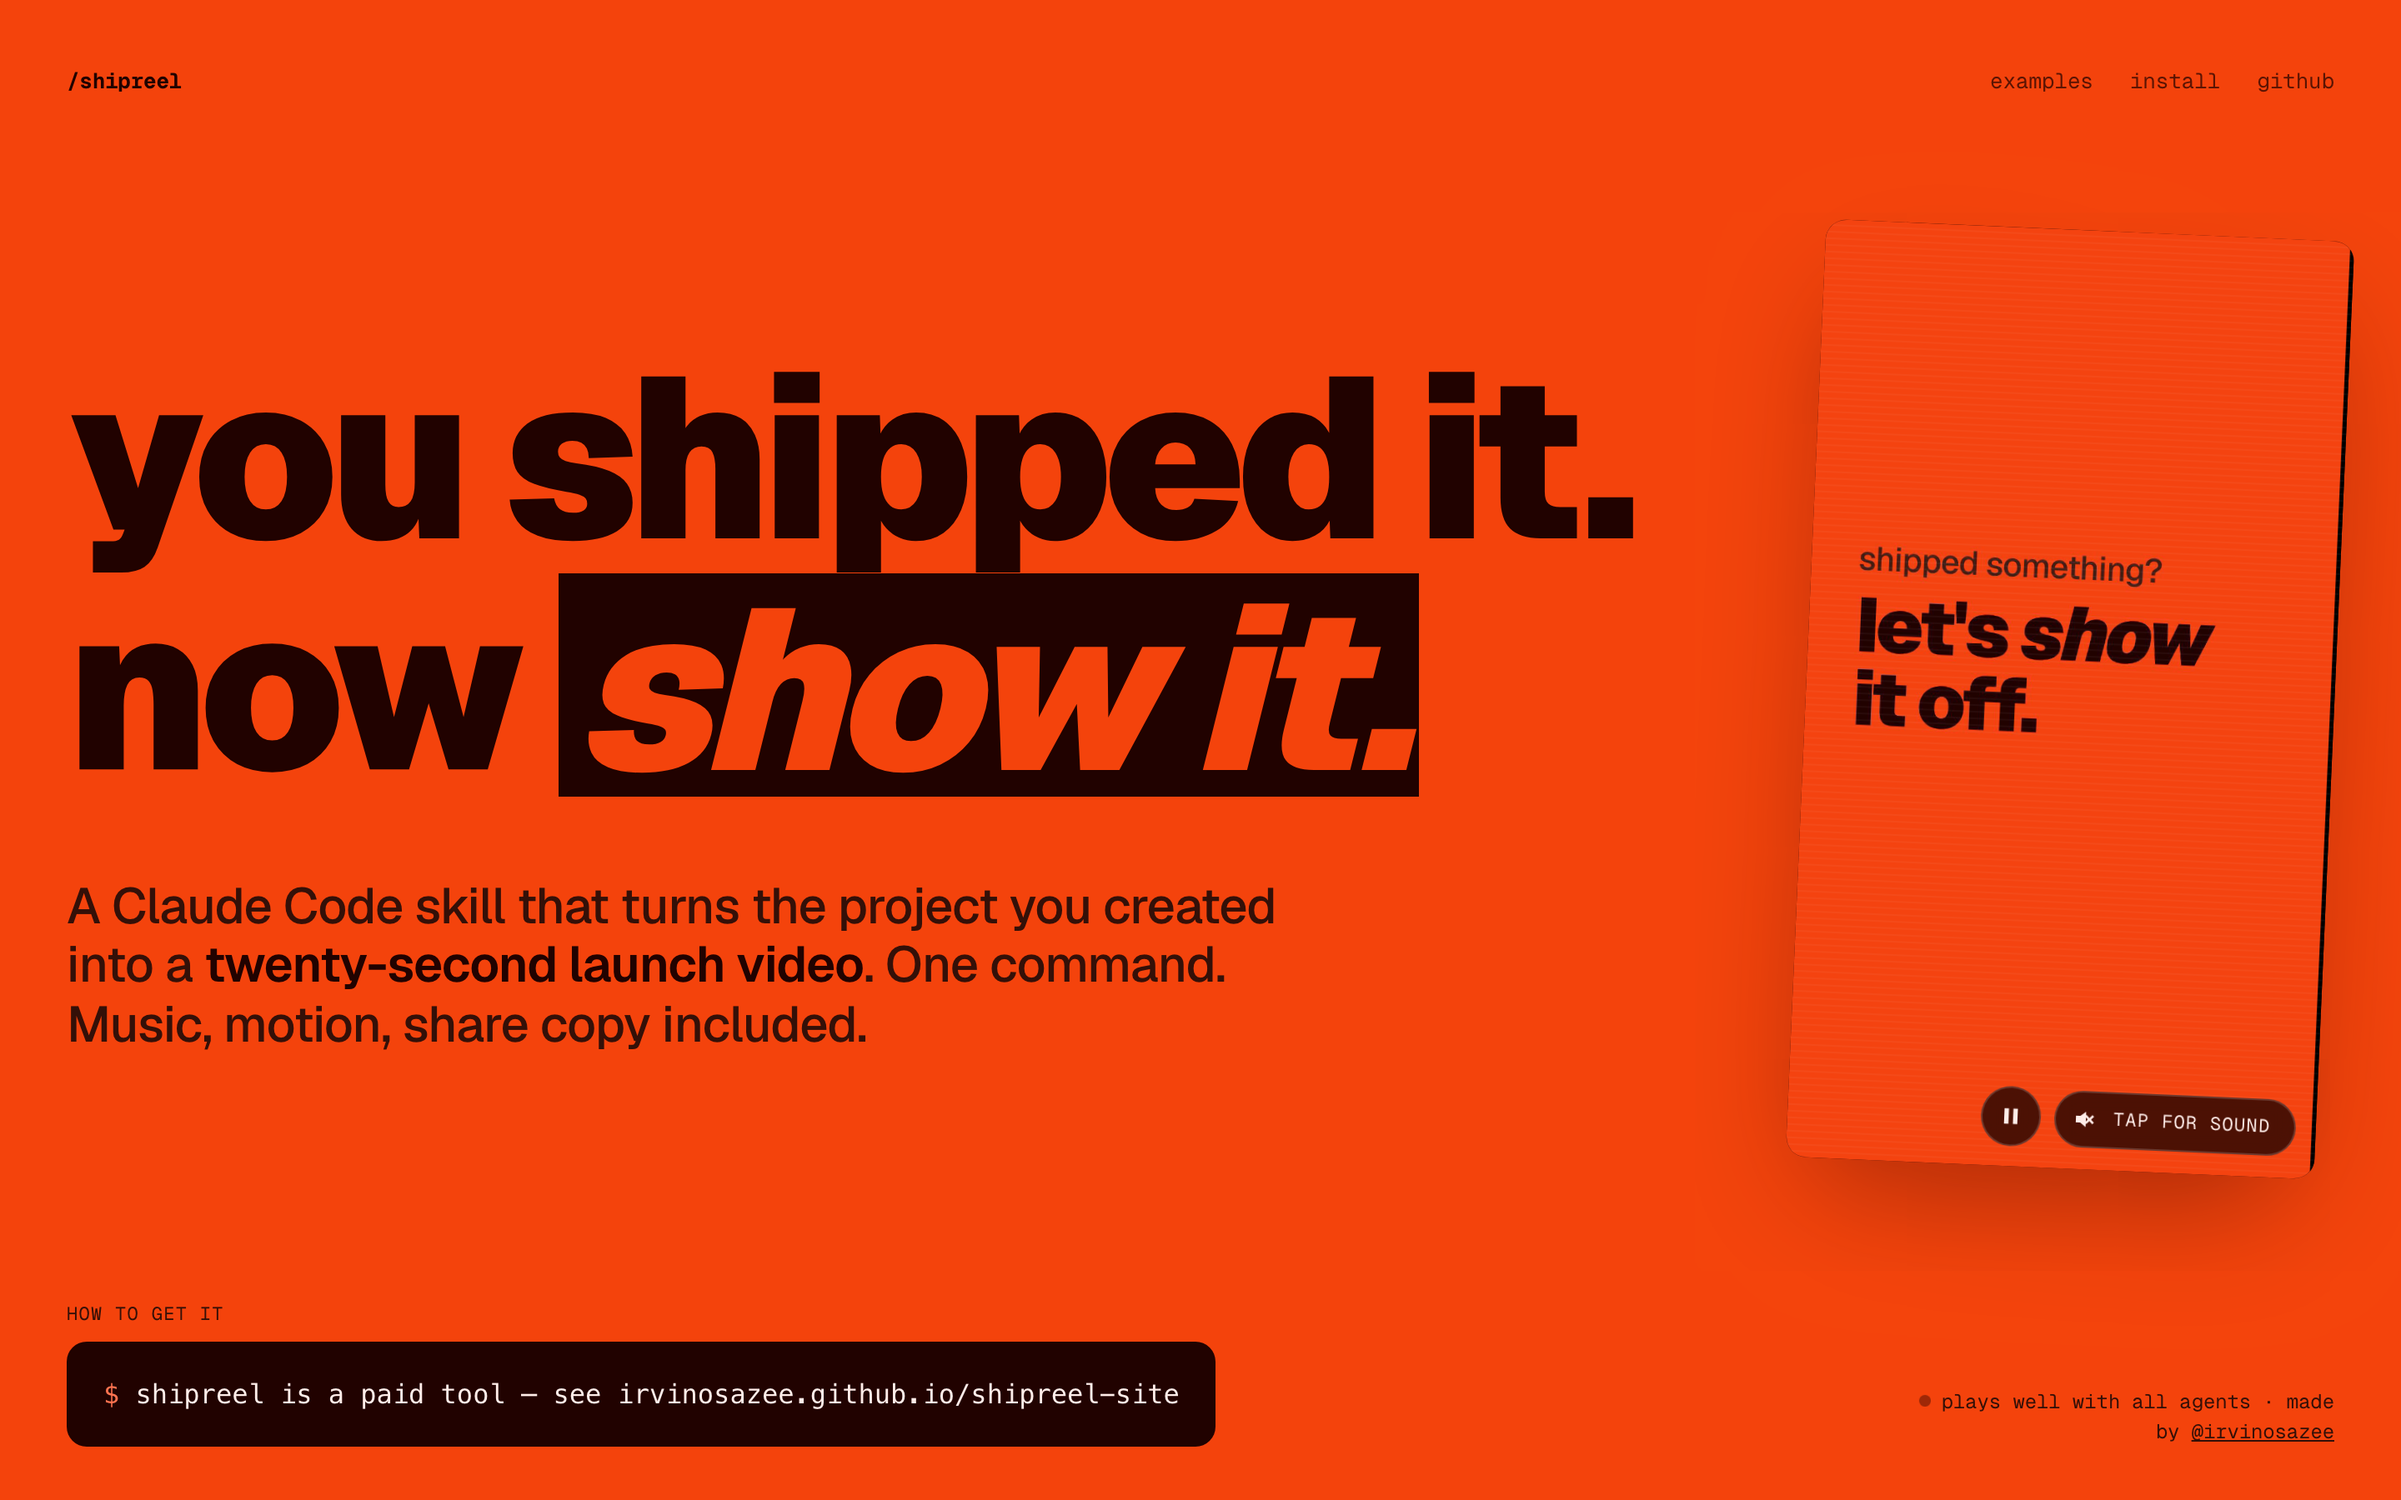
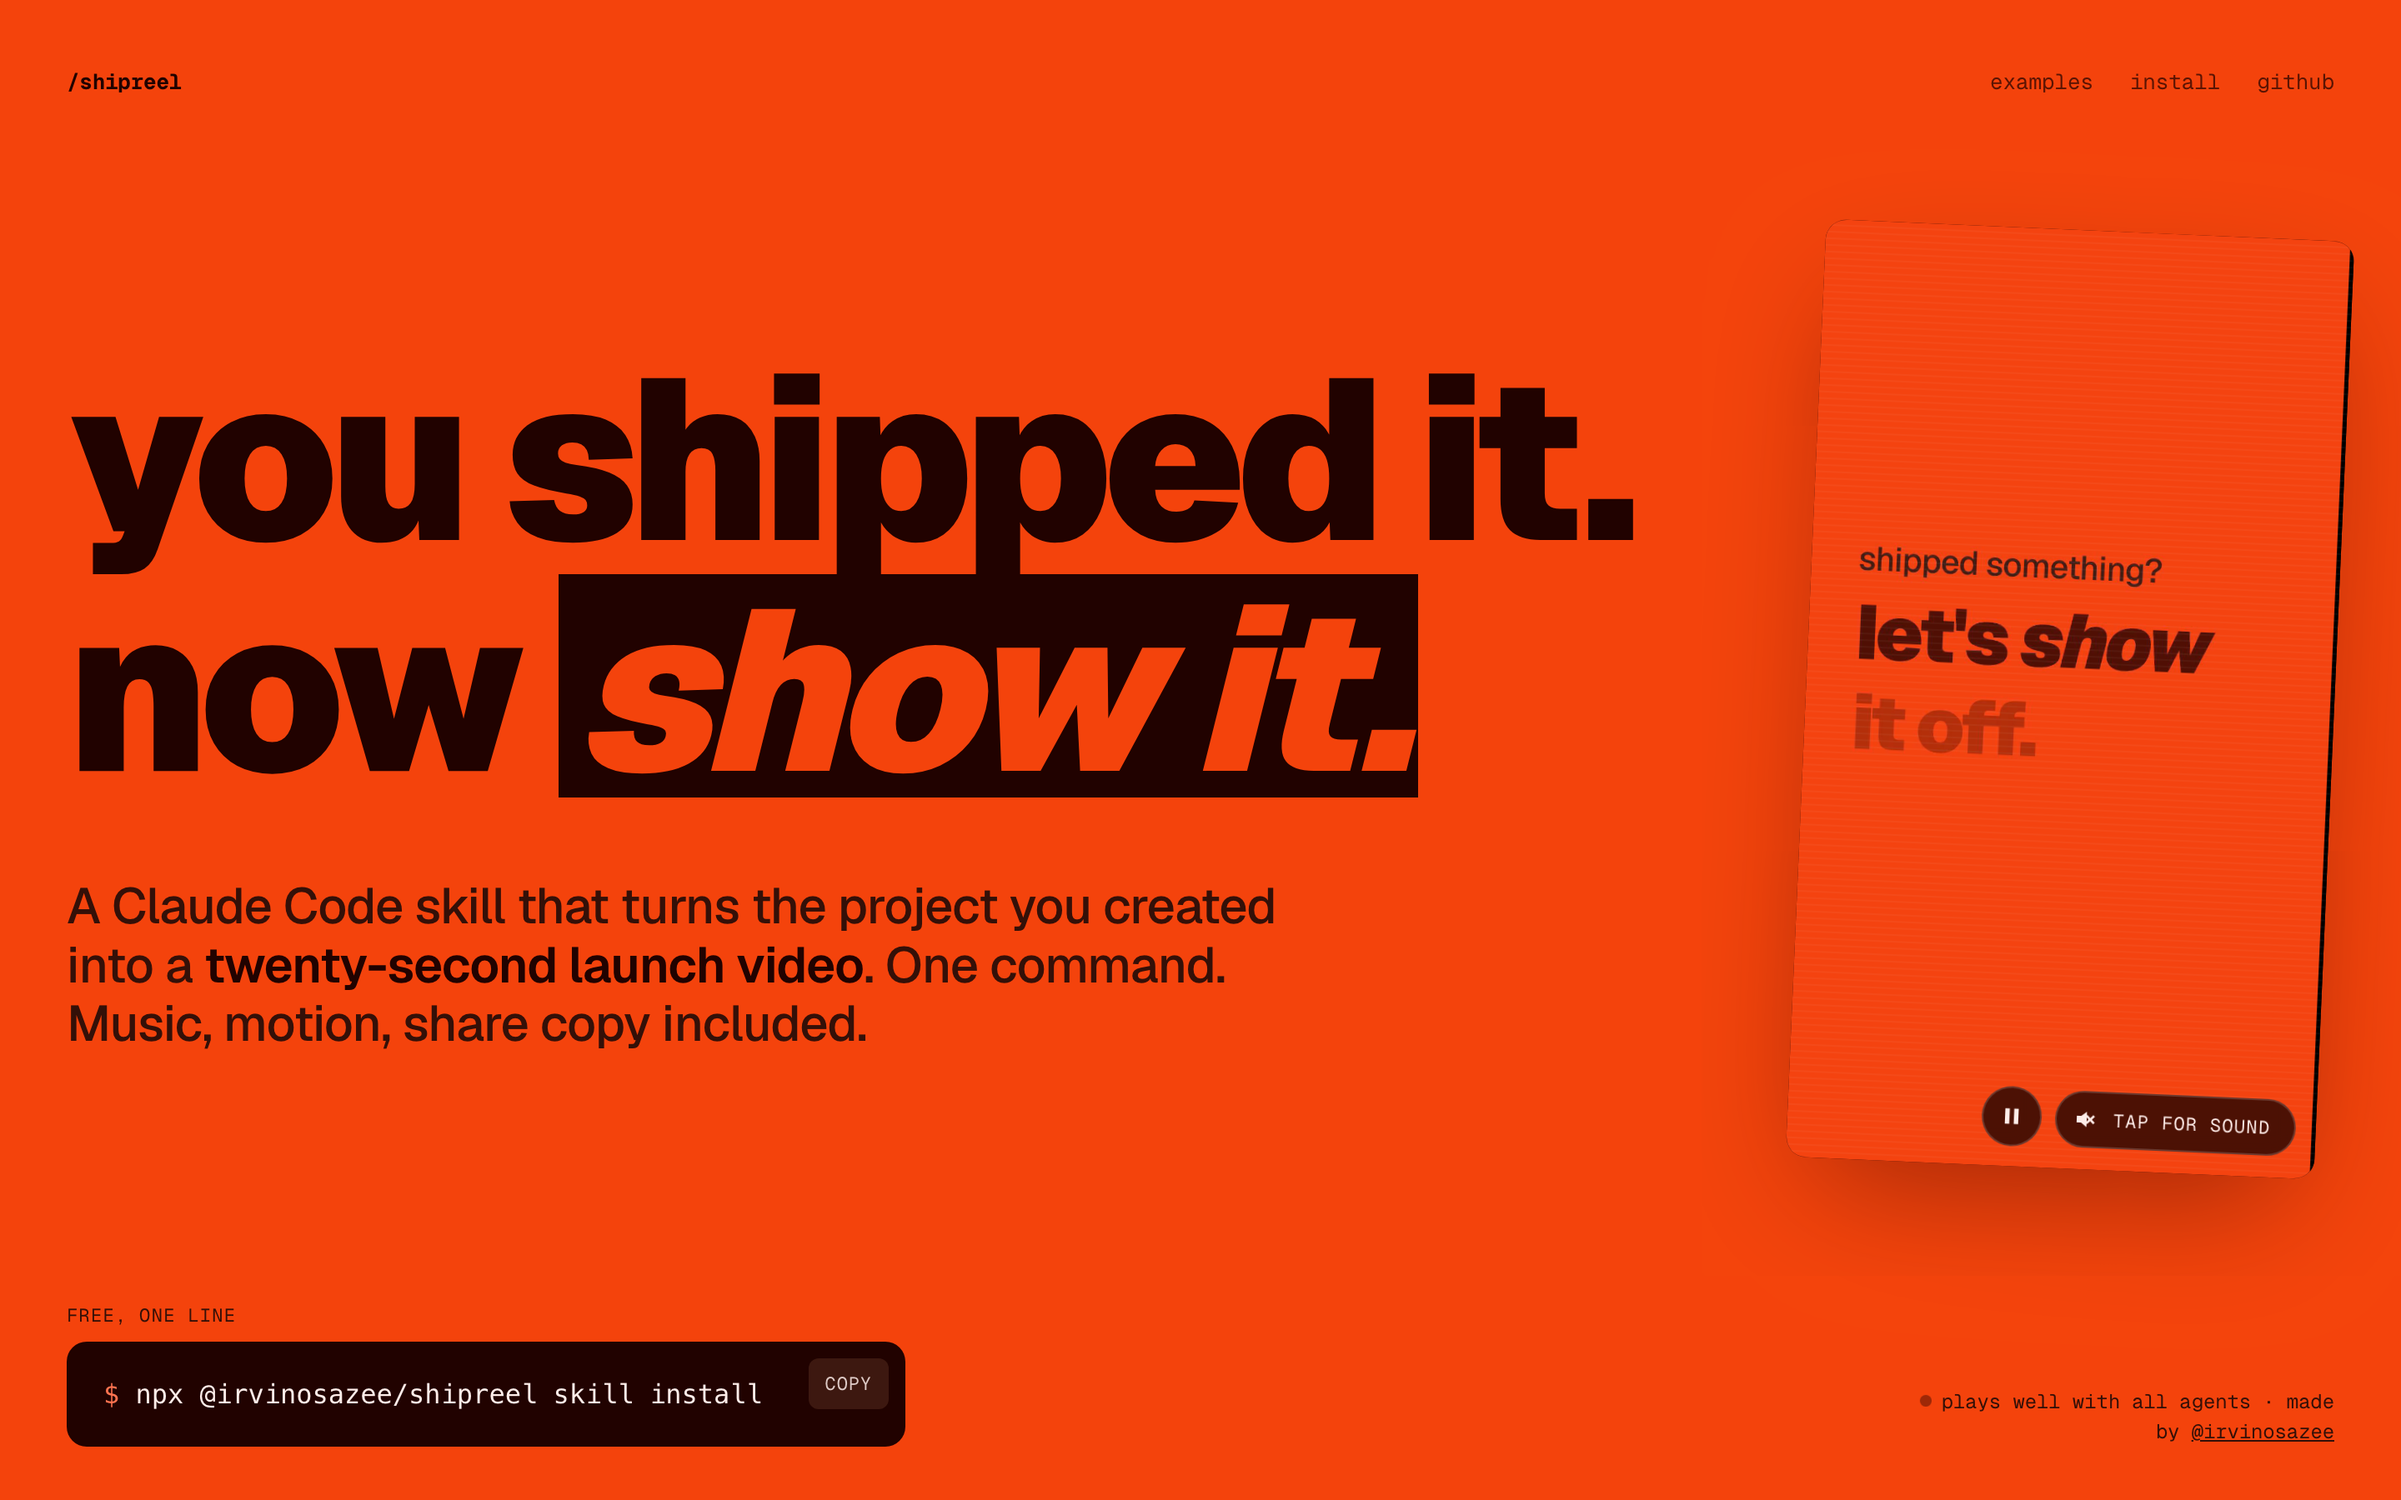
Point the demo site and README at the free install and the author's accounts
The demo site's 'shipreel is a paid tool' line becomes the one-line
install with a copy button, and hero.png is re-captured to match. The
README's call to action asks for a star and links GitHub, LinkedIn,
Medium and the portfolio instead of promising an email list, and
PUBLISHING.md says why there is no list yet.

diff --git a/docs/index.html b/docs/index.html
@@ -66,7 +66,7 @@
   </div>
 
   <div class="hero-foot" id="install">
-    <div class="install-stack"><span class="install-label">how to get it</span><pre class="install" aria-label="how to get shipreel"><code><span class="prompt">$</span> shipreel is a paid tool — see irvinosazee.github.io/shipreel-site</code></pre></div>
+    <div class="install-stack"><span class="install-label">free, one line</span><pre class="install" aria-label="install shipreel"><code><span class="prompt">$</span> npx @irvinosazee/shipreel skill install</code><button class="copy" type="button" data-copy="npx @irvinosazee/shipreel skill install">copy</button></pre></div>
     <div class="hero-meta"><span class="dot" aria-hidden="true"></span>plays well with all agents · made by <a href="https://github.com/irvinosazee" style="color:inherit;">@irvinosazee</a></div>
   </div>
 </header>
@@ -156,7 +156,7 @@
       <div class="outro-grid">
         <p class="outro-meta">we used <code>/shipreel</code> on <code>/shipreel</code>. the twenty-second video looping in the top-right corner of this page was made by the skill itself, on this very project. that's the demo.</p>
         <div class="outro-actions">
-          <div class="install-stack"><span class="install-label">how to get it</span><pre class="install" aria-label="how to get shipreel"><code><span class="prompt">$</span> shipreel is a paid tool — see irvinosazee.github.io/shipreel-site</code></pre></div>
+          <div class="install-stack"><span class="install-label">free, one line</span><pre class="install" aria-label="install shipreel"><code><span class="prompt">$</span> npx @irvinosazee/shipreel skill install</code><button class="copy" type="button" data-copy="npx @irvinosazee/shipreel skill install">copy</button></pre></div>
         </div>
       </div>
       <div class="colophon">

diff --git a/docs/styles.css b/docs/styles.css
@@ -726,3 +726,6 @@ button { font: inherit; cursor: pointer; }
   }
   .card:hover { transform: none; }
 }
+
+/* Leave room for the copy button so it never sits on the command. */
+.install:has(.copy) code { padding-right: 64px; }

diff --git a/ROADMAP.md b/ROADMAP.md
@@ -71,7 +71,7 @@ shipreel is free and MIT: the audience it builds is the point. Worked in order, 
 - [x] **O1 · History audit.** All 62 commits, every blob and patch: no private keys, API tokens, licence tokens, customer names or emails, or local machine paths. The only author emails besides the owner's noreply address are upstream /brag contributors', already public. No history rewrite needed.
 - [x] **O2 · MIT everywhere.** Removed `licence.mjs`, `scripts/issue-licence.mjs`, `LICENSE-COMMERCIAL.md`, the CLI gate and the doctor's licence line, and their three test files. `LICENSE` is plain MIT with both copyrights, plus a note that the bundled music stays CC BY 4.0. The private-key `git grep` guard survives, in `tests/docs_truth`.
 - [x] **O3 · One-line install.** `npx @irvinosazee/shipreel skill install` — scoped because the unscoped `shipreel` on npm is someone else's; the command it installs is still `shipreel`, and `publishConfig.access` is public. Every `npx shipreel` in code, docs, kits and tests replaced, and a test fails if one comes back. Marketplace manifest passes `claude plugin validate`. README: install, other routes, an Updating section, and a star/email call to action. PUBLISHING.md rewritten for an open-source release: check the package, go public (npm and GitHub together), ship an update, the list, the launch post. Tarball installed into a scratch prefix and `skill install` verified end to end.
-- [ ] **O4 · Landing page.** `shipreel-site` from sales page to landing page: install, email signup.
+- [x] **O4 · Landing page.** `shipreel-site` (commit `45208d3`, not pushed): the $49 CTA became the one-line install plus a GitHub star; pricing became an install section (skill, CLI, updating); licence/refund FAQs became why-it's-free and how to hear about releases; footer and JSON-LD link GitHub, LinkedIn, Medium and irvinosazee.me, the accounts the portfolio links. No email list, by choice. The demo site's "paid tool" install line became the real command, and `docs/assets/hero.png` was re-captured. Checked at 1440px and in a true 390px frame.
 - [ ] **O5 · User manual** in `docs/`.
 - [ ] **O6 · Portfolio and launch.** Portfolio entry fix (cover, counts, copy) and launch post draft.
 

diff --git a/PUBLISHING.md b/PUBLISHING.md
@@ -69,11 +69,15 @@ npm version and a tag.
 attaches it to the release. Running it on this repo means every shipreel release announces itself
 with a shipreel video — the best demo there is.
 
-## 4. The landing page and the list
+## 4. The landing page
 
-`shipreel-site` is the landing page. Its job changes from earning $49 to earning a star or an
-email address. Every visitor who leaves without one is gone for good, and the list is the audience
-a later paid product launches to — it is the asset, not the star count.
+`shipreel-site` is the landing page. Its job changed from earning $49 to earning an install and a
+star, and its footer links GitHub, LinkedIn, Medium and irvinosazee.me — the same accounts the
+portfolio links — so a visitor who likes the tool can follow the person who made it. Publishing it
+is `git push` in that repo.
+
+There is deliberately no email list yet. Add one before the first paid product, when there is
+something to tell people about; anyone who only starred before then will not be on it.
 
 ## 5. The launch post
 

diff --git a/README.md b/README.md
@@ -58,8 +58,10 @@ Releases, with a video of what changed, are on the [releases page](https://githu
 ### Stay in the loop
 
 If shipreel made you a video you posted, **[star the repo](https://github.com/irvinosazee/shipreel)** —
-it is how other people find it. For new releases and what I build next, join the list on
-[the site](https://irvinosazee.github.io/shipreel-site/#updates). One email per release, no more.
+it is how other people find it. **Watch → Custom → Releases** gets you one notification per release.
+To follow what I build next: [GitHub](https://github.com/irvinosazee) ·
+[LinkedIn](https://www.linkedin.com/in/irvin-osazee) · [Medium](https://medium.com/@uyiosazeeirvin) ·
+[irvinosazee.me](https://www.irvinosazee.me).
 
 ### Also works with
 
